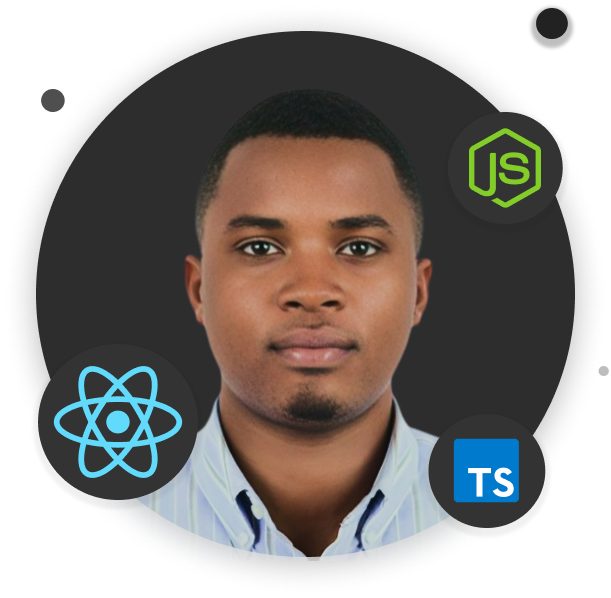
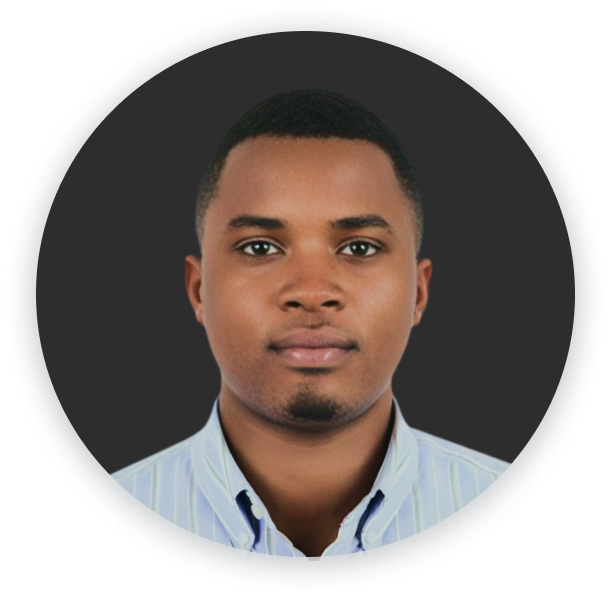
Added annimation

diff --git a/index.html b/index.html
@@ -12,6 +12,7 @@
     <link rel="stylesheet" href="https://cdnjs.cloudflare.com/ajax/libs/font-awesome/6.5.1/css/all.min.css"/>   
     <link rel="stylesheet" href="css/global.css" />
     <link rel="stylesheet" href="css/style.css" />
+    <link rel="stylesheet" href="https://unpkg.com/aos@next/dist/aos.css" />
   </head>
   <body>
     <nav class="flex">
@@ -108,13 +109,18 @@
           </span>
         </div>
       </div>
-      <img src="./images/myPic.png" />
+      <div class="mainImage">
+        <img src="./images/myPic.png" />
+        <i class="fa-brands fa-node-js" id="nodeIcon"></i>
+        <i class="fa-brands fa-react" id="reactIcon"></i>
+        <i class="fa-brands fa-github" id="gitIcon"></i>
+      </div>
     </section>
 
     <!---------------------- About section start --------------------->
 
     <section class="about flex" id="about">
-      <div class="details">
+      <div class="details" data-aos="zoom-in-right">
         <h2 class="title">aboutMe <span>( )</span></h2>
         <p class="text">
           Hello! My name is Eric Tuyishimire, I am a full stack developer based
@@ -125,7 +131,7 @@
           to finish.
         </p>
       </div>
-      <div class="links flex-col">
+      <div class="links flex-col" data-aos="zoom-in-left">
         <div class="sticker">
           <span>
             <span>Fullstack Developer</span>
@@ -148,17 +154,17 @@
     <section class="skills bg-black" id="skills">
       <h2 class="title">skills <span>( )</span</h2>
       <div class="skills-list">
-        <img src="./images/js.png">
-        <img src="./images/typescript.png">
-        <img src="./images/html.png">
-        <img src="./images/css.png">
-        <img src="./images/react.png">
-        <img src="./images/redux.png">
-        <img src="./images/nodejs.png">
-        <img src="./images/next.png">
-        <img src="./images/linux.png">
-        <img src="./images/ruby.png">
-        <img src="./images/rails.png">
+        <img src="./images/js.png" data-aos="zoom-in">
+        <img src="./images/typescript.png" data-aos="zoom-in">
+        <img src="./images/html.png" data-aos="zoom-in">
+        <img src="./images/css.png" data-aos="zoom-in">
+        <img src="./images/react.png" data-aos="zoom-in">
+        <img src="./images/redux.png" data-aos="zoom-in">
+        <img src="./images/nodejs.png" data-aos="zoom-in">
+        <img src="./images/next.png" data-aos="zoom-in">
+        <img src="./images/linux.png" data-aos="zoom-in">
+        <img src="./images/ruby.png" data-aos="zoom-in">
+        <img src="./images/rails.png" data-aos="zoom-in">
       </div>
     </section>
 
@@ -166,7 +172,8 @@
 
     <section class="experience bg-black" id="experience">
       <h2 class="title">experience <span>( )</span</h2>
-        <div id="experiences" class="exp-container"></div>
+        <div id="experiences" class="exp-container" data-aos="fade-up"
+        data-aos-duration="2000"></div>
         <span class="exp-bg"></span>
     </section>
 
@@ -174,7 +181,7 @@
 
     <section class="projects" id="Projects">
       <h2 class="title">projects <span>( )</span</h2>
-        <div id="projects" class="proj-container"></div>
+        <div id="projects" class="proj-container" data-aos="fade-left"></div>
     </section>
 
      <!---------------------- blog section start --------------------->
@@ -189,7 +196,7 @@
 
      <section class="contact flex-col" id="contact">
         <h2 class="title">contactMe <span>( )</span</h2>
-          <form class="contactMe">
+          <form class="contactMe" data-aos="zoom-out-up">
             <span class="input-text" id="fullName">
               <label for="username">Full name:</label>
               <input type="text" id="fullNameInput" name="fullName" maxlength="30">
@@ -238,7 +245,10 @@
           </li>
         </ul>
       </footer>
-
+      <script src="https://unpkg.com/aos@next/dist/aos.js"></script>
+      <script>
+        AOS.init();
+      </script>
      <script type="module" src="js/index.js"></script>
      <script type="module" src="js/formValidation.js"></script>
   </body>

diff --git a/js/admin/blogs/updateBlog.js b/js/admin/blogs/updateBlog.js
@@ -1,32 +1,50 @@
-const createBlogForm = document.querySelector('.createBlog');
-const blogTitle = document.querySelector('#blogTitle');
-const blogContent = document.querySelector('.editorContent');
+const createBlogForm = document.querySelector(".createBlog");
+const blogTitle = document.querySelector("#blogTitle");
+const blogContent = document.querySelector(".editorContent");
 const imageInput = document.querySelector(".imageInput");
 
 const currentUrl = new URL(window.location.href);
 const searchParams = new URLSearchParams(currentUrl.search);
-const blogId = searchParams.get('id');
+const blogId = searchParams.get("id");
 
 const allBlogs = JSON.parse(localStorage.getItem("blogs")) || [];
-const selectedBlogIndex = allBlogs.findIndex(blog => blog.id == blogId);
+const selectedBlogIndex = allBlogs.findIndex((blog) => blog.id == blogId);
+
+
+const generateStars = (rating) => {
+  const fullStars = Math.floor(rating);
+  const halfStar = rating % 1 !== 0;
+
+  for (let i = 0; i < 5; i++) {
+    if (i < fullStars) {
+      ratingsHTML += `<i class="fa fa-star"></i>`;
+    } else {
+      ratingsHTML += `<i class="fa-regular fa-star"></i>`;
+    }
+  }
+};
 
 if (selectedBlogIndex !== -1) {
-    const selectedBlog = allBlogs[selectedBlogIndex];
-    imageInput.innerHTML = ` <img src="../../${selectedBlog.image}" alt="${selectedBlog.title}" id="selectedImage">`
-    blogTitle.value = selectedBlog.title;
-    blogContent.innerHTML = JSON.parse(selectedBlog.description);
+  const selectedBlog = allBlogs[selectedBlogIndex];
+  imageInput.innerHTML = ` <img src="../../${selectedBlog.image}" alt="${selectedBlog.title}" id="selectedImage">`;
+  blogTitle.value = selectedBlog.title;
+  blogContent.innerHTML = JSON.parse(selectedBlog.description);
 
-    createBlogForm.addEventListener("submit", (e) => {
-        e.preventDefault();
+  createBlogForm.addEventListener("submit", (e) => {
+    e.preventDefault();
 
-        const updatedBlog = { ...selectedBlog, title: blogTitle.value, description: JSON.stringify(blogContent.innerHTML) };
-        allBlogs[selectedBlogIndex] = updatedBlog;
+    const updatedBlog = {
+      ...selectedBlog,
+      title: blogTitle.value,
+      description: JSON.stringify(blogContent.innerHTML),
+    };
+    allBlogs[selectedBlogIndex] = updatedBlog;
 
-        localStorage.setItem("blogs", JSON.stringify(allBlogs));
+    localStorage.setItem("blogs", JSON.stringify(allBlogs));
 
-        blogTitle.value = "";
-        blogContent.innerHTML = "";
-        
-        window.location.href = './blogs.html';
-    });
-} 
+    blogTitle.value = "";
+    blogContent.innerHTML = "";
+
+    window.location.href = "./blogs.html";
+  });
+}

diff --git a/css/style.css b/css/style.css
@@ -279,19 +279,6 @@ ul {
   color: var(--second-color);
 }
 
-
-@keyframes animated-text{
-  from{width: 0;}
-  to{width: 472px;}
-}
-
-/* cursor animations */
-
-@keyframes animated-cursor{
-  from{border-right-color: rgba(0,255,0,.75);}
-  to{border-right-color: transparent;}
-}
-
 .intro h3 {
   font-size: 2rem;
 }
@@ -310,8 +297,60 @@ ul {
   margin-left: 6px;
 }
 
-.main img {
+.mainImage {
   width: 40%;
+  position: relative;
+}
+
+.mainImage img {
+  width: 100%;
+  height: 100%;
+}
+
+.mainImage i {
+  background-color: var(--fourth-color);
+  
+  padding: 15px;
+  border-radius: 50%;
+  position: absolute;
+  font-size: 72px;
+}
+
+.mainImage #nodeIcon {
+  color: var(--fith-color);
+  left: 5%;
+  bottom: 20%;
+  animation: float 6s ease-in-out infinite;
+}
+
+.mainImage #reactIcon {
+  color: var(--main-color);
+  right: 2%;
+  top: 20%;
+  animation: float 3s ease-in-out infinite;
+}
+
+.mainImage #gitIcon {
+  color: var(--dark-color-color);
+  right: 8%;
+  font-size: 70px;
+  bottom: 8%;
+  box-shadow: 0 5px 15px 0px rgba(0,0,0,0.6);
+}
+
+@keyframes float {
+	0% {
+		box-shadow: 0 5px 15px 0px rgba(0,0,0,0.6);
+		transform: translatey(0px) scale(1);
+	}
+	50% {
+		box-shadow: 0 25px 15px 0px rgba(0,0,0,0.2);
+		transform: translatey(-20px) scale(0.96);
+	}
+	100% {
+		box-shadow: 0 5px 15px 0px rgba(0,0,0,0.6);
+		transform: translatey(0px) scale(1);
+	}
 }
 
 @media only screen and (max-width: 1220px) {

diff --git a/js/client/blogDetails.js b/js/client/blogDetails.js
@@ -48,7 +48,7 @@ const generateStars = (rating) => {
 };
 
 blogContainer.innerHTML = `
-    <div class="blogDetails">
+    <div class="blogDetails" data-aos="zoom-out">
         <img src="../${selectedBlog.image}" alt="${
   selectedBlog.title
 }" class="mainImage"/>
@@ -66,7 +66,8 @@ blogContainer.innerHTML = `
             )}</article>
         </div>
         <div class="comments">
-            <div class="sticker" id="likeButton">
+            <div class="sticker" id="likeButton" data-aos="fade-up"
+            data-aos-duration="1000">
                 <img src="../images/heart.png" alt="heart" />
                 <span>${selectedBlog.likes} Likes</span>
             </div>
@@ -81,7 +82,8 @@ blogContainer.innerHTML = `
                   .map((comment) => {
                     generateStars(comment.rating);
                     return `
-                        <div class="comment">
+                        <div class="comment" data-aos="fade-up"
+                        data-aos-duration="1000">
                             <div class="comment_head">
                                 <img src="../images/user.png" alt="user" class="profilePicture"/>
                                 <div class="comment_details">

diff --git a/pages/blogDetails.html b/pages/blogDetails.html
@@ -12,6 +12,7 @@
       rel="stylesheet"
       href="https://fonts.googleapis.com/css2?family=Roboto:wght@400;700&display=swap"
     />
+    <link rel="stylesheet" href="https://unpkg.com/aos@next/dist/aos.css" />
   </head>
   <body>
     <nav class="flex">
@@ -153,8 +154,10 @@
         </li>
       </ul>
     </footer>
-
+    <script src="https://unpkg.com/aos@next/dist/aos.js"></script>
+      <script>
+        AOS.init();
+      </script>
     <script type="module" src="../js/client/blogDetails.js"></script>
-    <!-- <script type="module" src="../js/formValidation.js"></script> -->
   </body>
 </html>

diff --git a/pages/admin/updateBlog.html b/pages/admin/updateBlog.html
@@ -135,6 +135,7 @@
 
         <button type="submit" class="button">Publish</button>
       </form>
+
         
       </section>
 
@@ -144,10 +145,6 @@
     <script type="module" src="../../js/admin.js"></script>
     <script type="module" src="../../js/index.js"></script>
     <script type="module" src="../../js/textEditor.js"></script>
-    <!-- <script type="module" src="../../js/formValidation.js"></script> -->
     <script type="module" src="../../js/admin/blogs/updateBlog.js"></script>
-    <!-- <script>
-      var editor1 = new RichTextEditor("#blogContainer");
-    </script> -->
   </body>
 </html>

diff --git a/pages/login.html b/pages/login.html
@@ -72,7 +72,7 @@
               <a  target="_blank" href="https://github.com/TuyishimireEric"><img src="../images/github.png" alt="github" /></a>
             </li>
             <li class="user">
-              <a href="#home" id="user" class="user flex-col">
+              <a href="./admin/dashboard.html" id="user" class="user flex-col">
                 <img src="../images/user.png" alt="user" />
                 <span>SignIn</span>
               </a>

diff --git a/js/index.js b/js/index.js
@@ -83,7 +83,7 @@ const getBlogs = (filteredBlogs) => {
       truncateDescription(JSON.parse(blog.description), 40) || "";
 
     blogsHTML += `
-      <article class="blog" key=${blog.id}>
+      <article class="blog" key=${blog.id} data-aos="zoom-in-up">
         <div class="blog-image">
           <img src="./${blog.image}" alt="${blog.title}">
         </div>

diff --git a/pages/admin/blogs.html b/pages/admin/blogs.html
@@ -119,7 +119,6 @@
 
     <script type="module" src="../../js/common.js"></script>
     <script type="module" src="../../js/admin.js"></script>
-    <!-- <script type="module" src="../../js/index.js"></script> -->
     <script type="module" src="../../js/admin/blogs/deleteBlog.js"></script>
   </body>
 </html>

diff --git a/css/adminBlogs.css b/css/adminBlogs.css
@@ -112,6 +112,10 @@
     margin-top: 10px;
 }
 
+.blogComments {
+    margin-top: 40px;
+}
+
 @media only screen and (max-width: 650px) {
     .createBlog .blogIntro {
         flex-direction: column;
